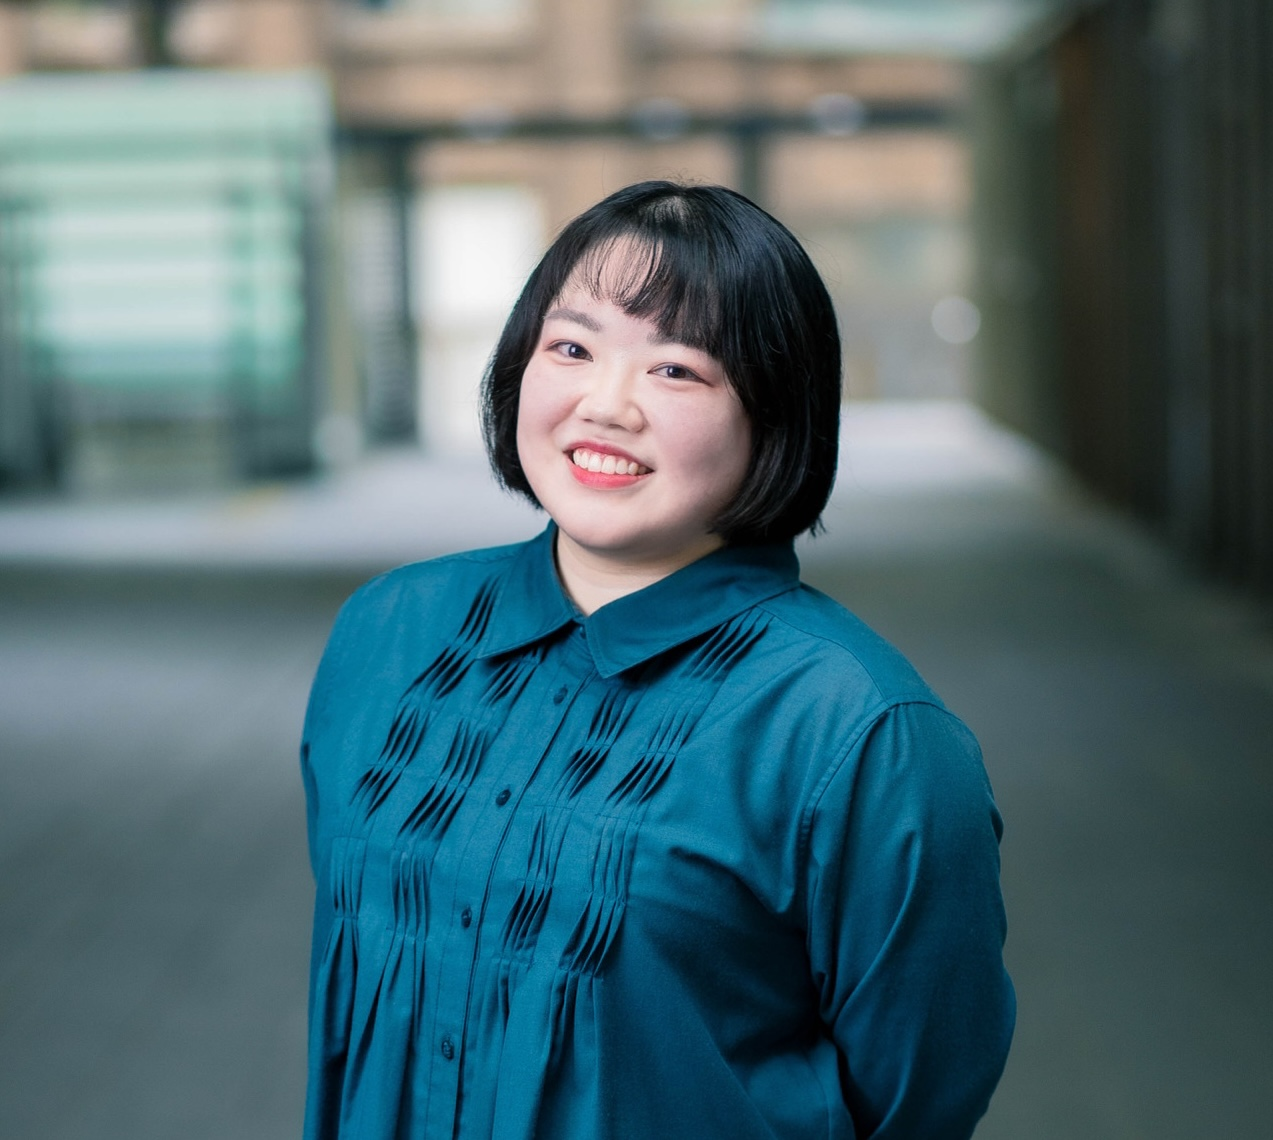
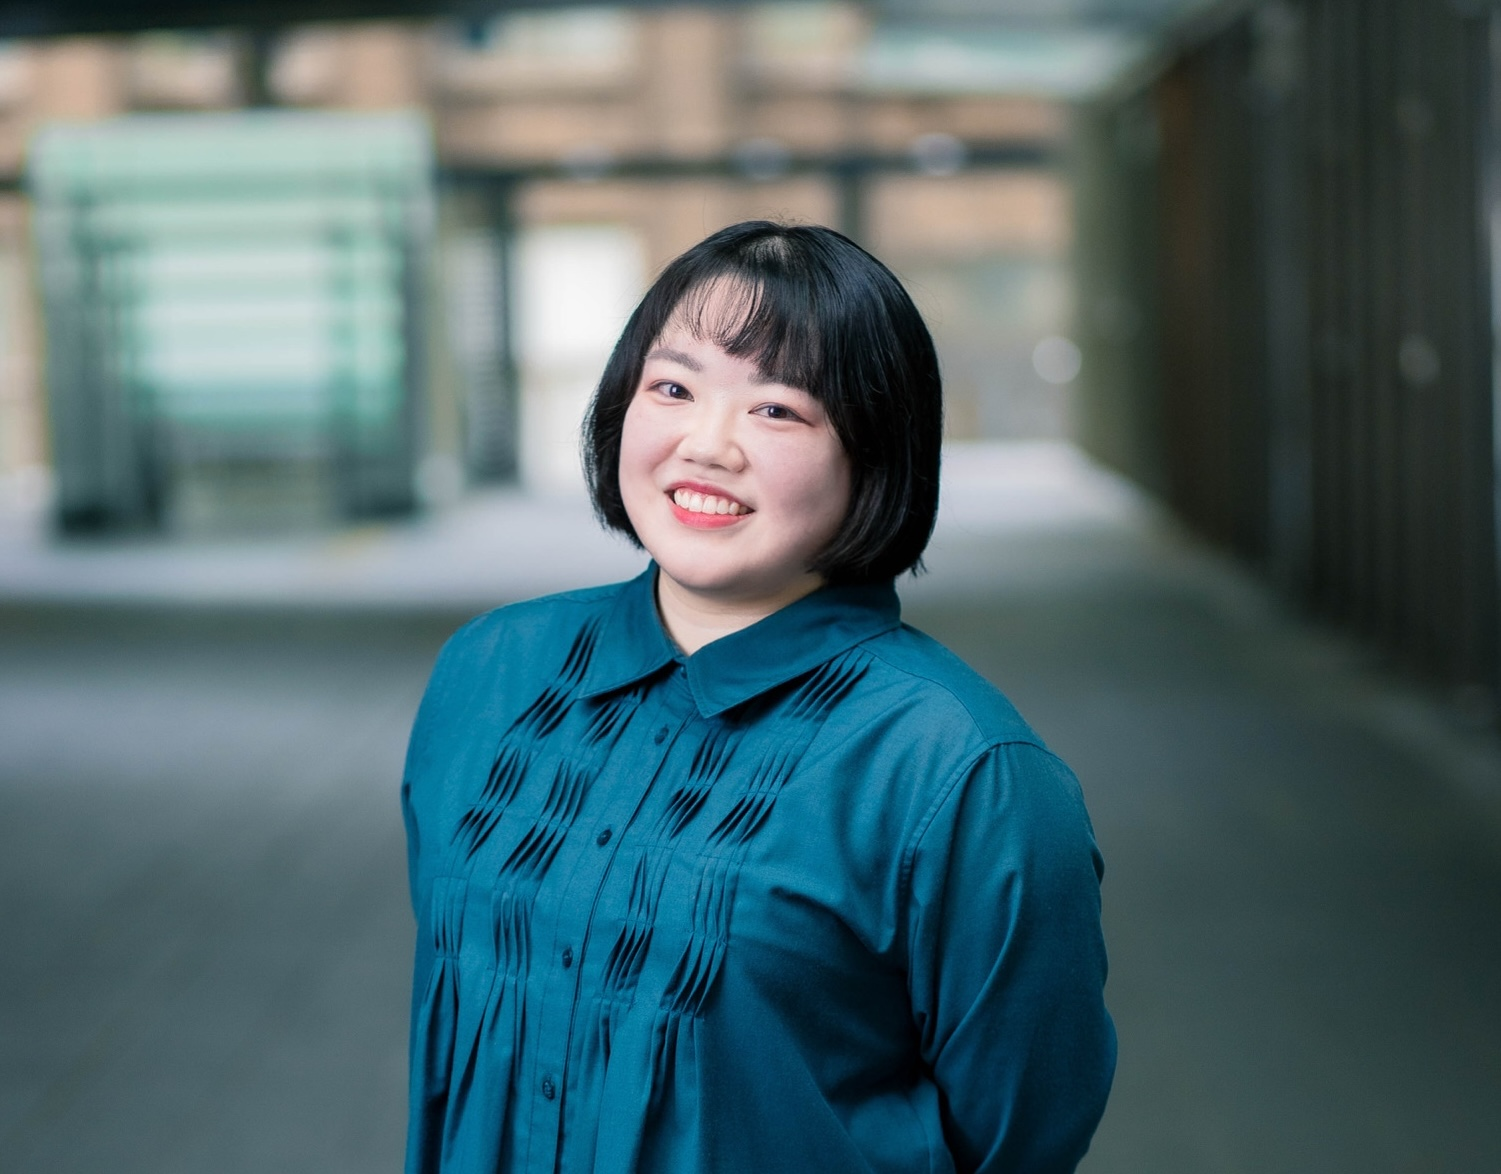
Change photo.

diff --git a/docs/post/mac-obs/index.html b/docs/post/mac-obs/index.html
@@ -1080,7 +1080,7 @@ Windowsの方は他サイトをご参照ください。</p>
   <div class="media author-card content-widget-hr">
     
       
-      <a href="https://eri-kuroda.com/"><img class="avatar mr-3 avatar-circle" src="/author/%E9%BB%92%E7%94%B0-%E5%BD%97%E8%8E%89/avatar_hu02aa61ae1d9de35cbe238d2676170cb9_309930_270x270_fill_q90_lanczos_center.jpg" alt="黒田 彗莉"></a>
+      <a href="https://eri-kuroda.com/"><img class="avatar mr-3 avatar-circle" src="/author/%E9%BB%92%E7%94%B0-%E5%BD%97%E8%8E%89/avatar_hu02aa61ae1d9de35cbe238d2676170cb9_356551_270x270_fill_q90_lanczos_center.jpg" alt="黒田 彗莉"></a>
     
 
     <div class="media-body">

diff --git a/docs/post/hugo-academic/index.html b/docs/post/hugo-academic/index.html
@@ -984,7 +984,7 @@
   <div class="media author-card content-widget-hr">
     
       
-      <a href="https://eri-kuroda.com/"><img class="avatar mr-3 avatar-circle" src="/author/%E9%BB%92%E7%94%B0-%E5%BD%97%E8%8E%89/avatar_hu02aa61ae1d9de35cbe238d2676170cb9_309930_270x270_fill_q90_lanczos_center.jpg" alt="黒田 彗莉"></a>
+      <a href="https://eri-kuroda.com/"><img class="avatar mr-3 avatar-circle" src="/author/%E9%BB%92%E7%94%B0-%E5%BD%97%E8%8E%89/avatar_hu02aa61ae1d9de35cbe238d2676170cb9_356551_270x270_fill_q90_lanczos_center.jpg" alt="黒田 彗莉"></a>
     
 
     <div class="media-body">

diff --git a/docs/index.html b/docs/index.html
@@ -818,7 +818,7 @@
 
       
       
-      <img class="avatar avatar-circle" src="/author/%E9%BB%92%E7%94%B0-%E5%BD%97%E8%8E%89/avatar_hu02aa61ae1d9de35cbe238d2676170cb9_309930_270x270_fill_q90_lanczos_center.jpg" alt="黒田 彗莉">
+      <img class="avatar avatar-circle" src="/author/%E9%BB%92%E7%94%B0-%E5%BD%97%E8%8E%89/avatar_hu02aa61ae1d9de35cbe238d2676170cb9_356551_270x270_fill_q90_lanczos_center.jpg" alt="黒田 彗莉">
       
 
       <div class="portrait-title">

diff --git a/docs/en/index.html b/docs/en/index.html
@@ -781,7 +781,7 @@
 
       
       
-      <img class="avatar avatar-circle" src="/en/author/eri-kuroda/avatar_hu02aa61ae1d9de35cbe238d2676170cb9_309930_270x270_fill_q90_lanczos_center.jpg" alt="Eri Kuroda">
+      <img class="avatar avatar-circle" src="/en/author/eri-kuroda/avatar_hu02aa61ae1d9de35cbe238d2676170cb9_356551_270x270_fill_q90_lanczos_center.jpg" alt="Eri Kuroda">
       
 
       <div class="portrait-title">
